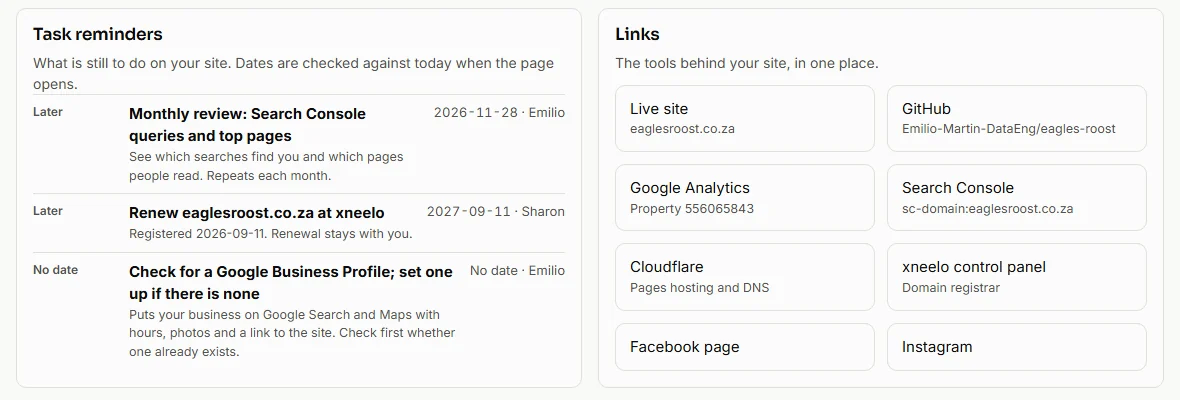
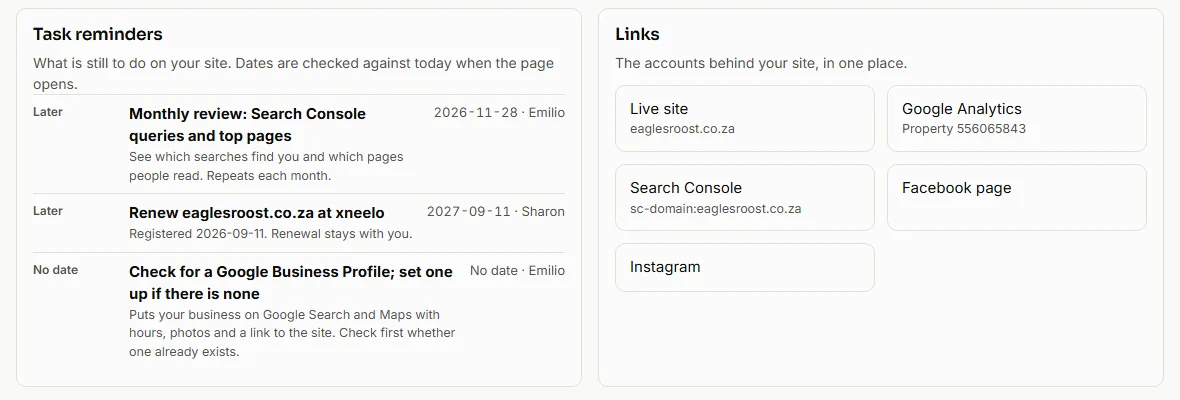
fix(sites): council review copy fixes
Dashboard FAQ names Business and Custom; Included intro says the phone app
and dashboard are extras on some tiers; Method matches the Offer on the
contact form; phone app pricing says it is in pilot; dashboard promises
links to accounts in the client's name, with a retaken screenshot.

diff --git a/src/site.config.ts b/src/site.config.ts
@@ -344,7 +344,7 @@ export const adminFeatures = [
   "Google searches: the words people typed to find you, how often you were shown and clicked, and your average position, from Search Console",
   "Project completion: a checklist of what is done on your site, ticked from automatic checks of the live pages (titles, sitemap, schema and the analytics tag)",
   "Task reminders: what is still to do on your site, so nothing waits unseen",
-  "One page of links to the tools behind your site: GitHub, Cloudflare, xneelo (domain and hosting), Search Console and Bing, so you do not sign in to each one to find a number",
+  "One page of links to the accounts in your name, such as Google Analytics, Search Console and your social pages, so you do not hunt for them",
   "Set up and kept current for you: we give your Google account access to your numbers and keep the reminders and links up to date, so there is nothing for you to edit",
 ] as const;
 
@@ -367,7 +367,7 @@ export const methodSteps = [
   },
   {
     title: "Build from a sample",
-    text: "Mobile-first site. WhatsApp as the main button. Contact form included. Map with a Google Earth fly-to, SEO, GEO and AEO are built in from the first build, not add-ons. Library pages such as weather are added where they fit.",
+    text: "Mobile-first site. WhatsApp as the main button. A contact form where you want one, once it is connected and tested. Map with a Google Earth fly-to, SEO, GEO and AEO are built in from the first build, not add-ons. Library pages such as weather are added where they fit.",
   },
   {
     title: "Photos: placeholders first, then yours",
@@ -413,7 +413,7 @@ export const phoneApp = {
   status: "In pilot at Eagle’s Roost",
   /** Included from Brochure up; one-off on Starter. Customisation beyond the site's own content is quoted. */
   starterPriceZar: APP_STARTER_PRICE,
-  pricing: `Included on Brochure, Business and Custom. On Starter it is a one-off ${zar(APP_STARTER_PRICE)}. It repackages what is already on your website, so there is nothing to re-write. Customisation beyond that is quoted after a short consult.`,
+  pricing: `Included on Brochure, Business and Custom. On Starter it is a one-off ${zar(APP_STARTER_PRICE)}. It is in pilot at Eagle’s Roost: you get it as it stands today, and the improvements we make during the pilot at no extra cost. It repackages what is already on your website, so there is nothing to re-write. Customisation beyond that is quoted after a short consult.`,
   example: { label: "Eagle’s Roost guest guide", href: "https://eaglesroost.co.za/guide/" },
   image: "/images/work/eagles-roost/feature-guide.webp",
   imageAlt: "Eagle's Roost guest guide app: Wi-Fi, weather now, the house and check-in times",
@@ -461,11 +461,11 @@ export const faq = [
   },
   {
     q: "What is the admin dashboard?",
-    a: `One private page for your site: your stats, a checklist of what is done, reminders of what is still to do, and links to the tools behind your site such as GitHub, Cloudflare and xneelo. You sign in with Google and only you and we can open it. We set it up and keep the reminders and links current. It is included on Business and Custom, and a one-off ${zar(ADMIN_PRICE)} add-on on Starter and Brochure.`,
+    a: `One private page for your site: your stats, a checklist of what is done, reminders of what is still to do, and links to the accounts in your name, such as Google Analytics and Search Console. You sign in with Google and only you and we can open it. We set it up and keep the reminders and links current. It is included on Business and Custom, and a one-off ${zar(ADMIN_PRICE)} add-on on Starter and Brochure.`,
   },
   {
     q: "Will a new website bring me more enquiries?",
-    a: "We cannot promise a number. We fix what loses enquiries: a site that breaks on a phone, no WhatsApp button, no clear price. The admin dashboard, included on Business and an add-on on Starter and Brochure, then shows how many people visit and which Google searches find you.",
+    a: "We cannot promise a number. We fix what loses enquiries: a site that breaks on a phone, no WhatsApp button, no clear price. The admin dashboard, included on Business and Custom and an add-on on Starter and Brochure, then shows how many people visit and which Google searches find you.",
   },
   {
     q: "Who owns the website?",
